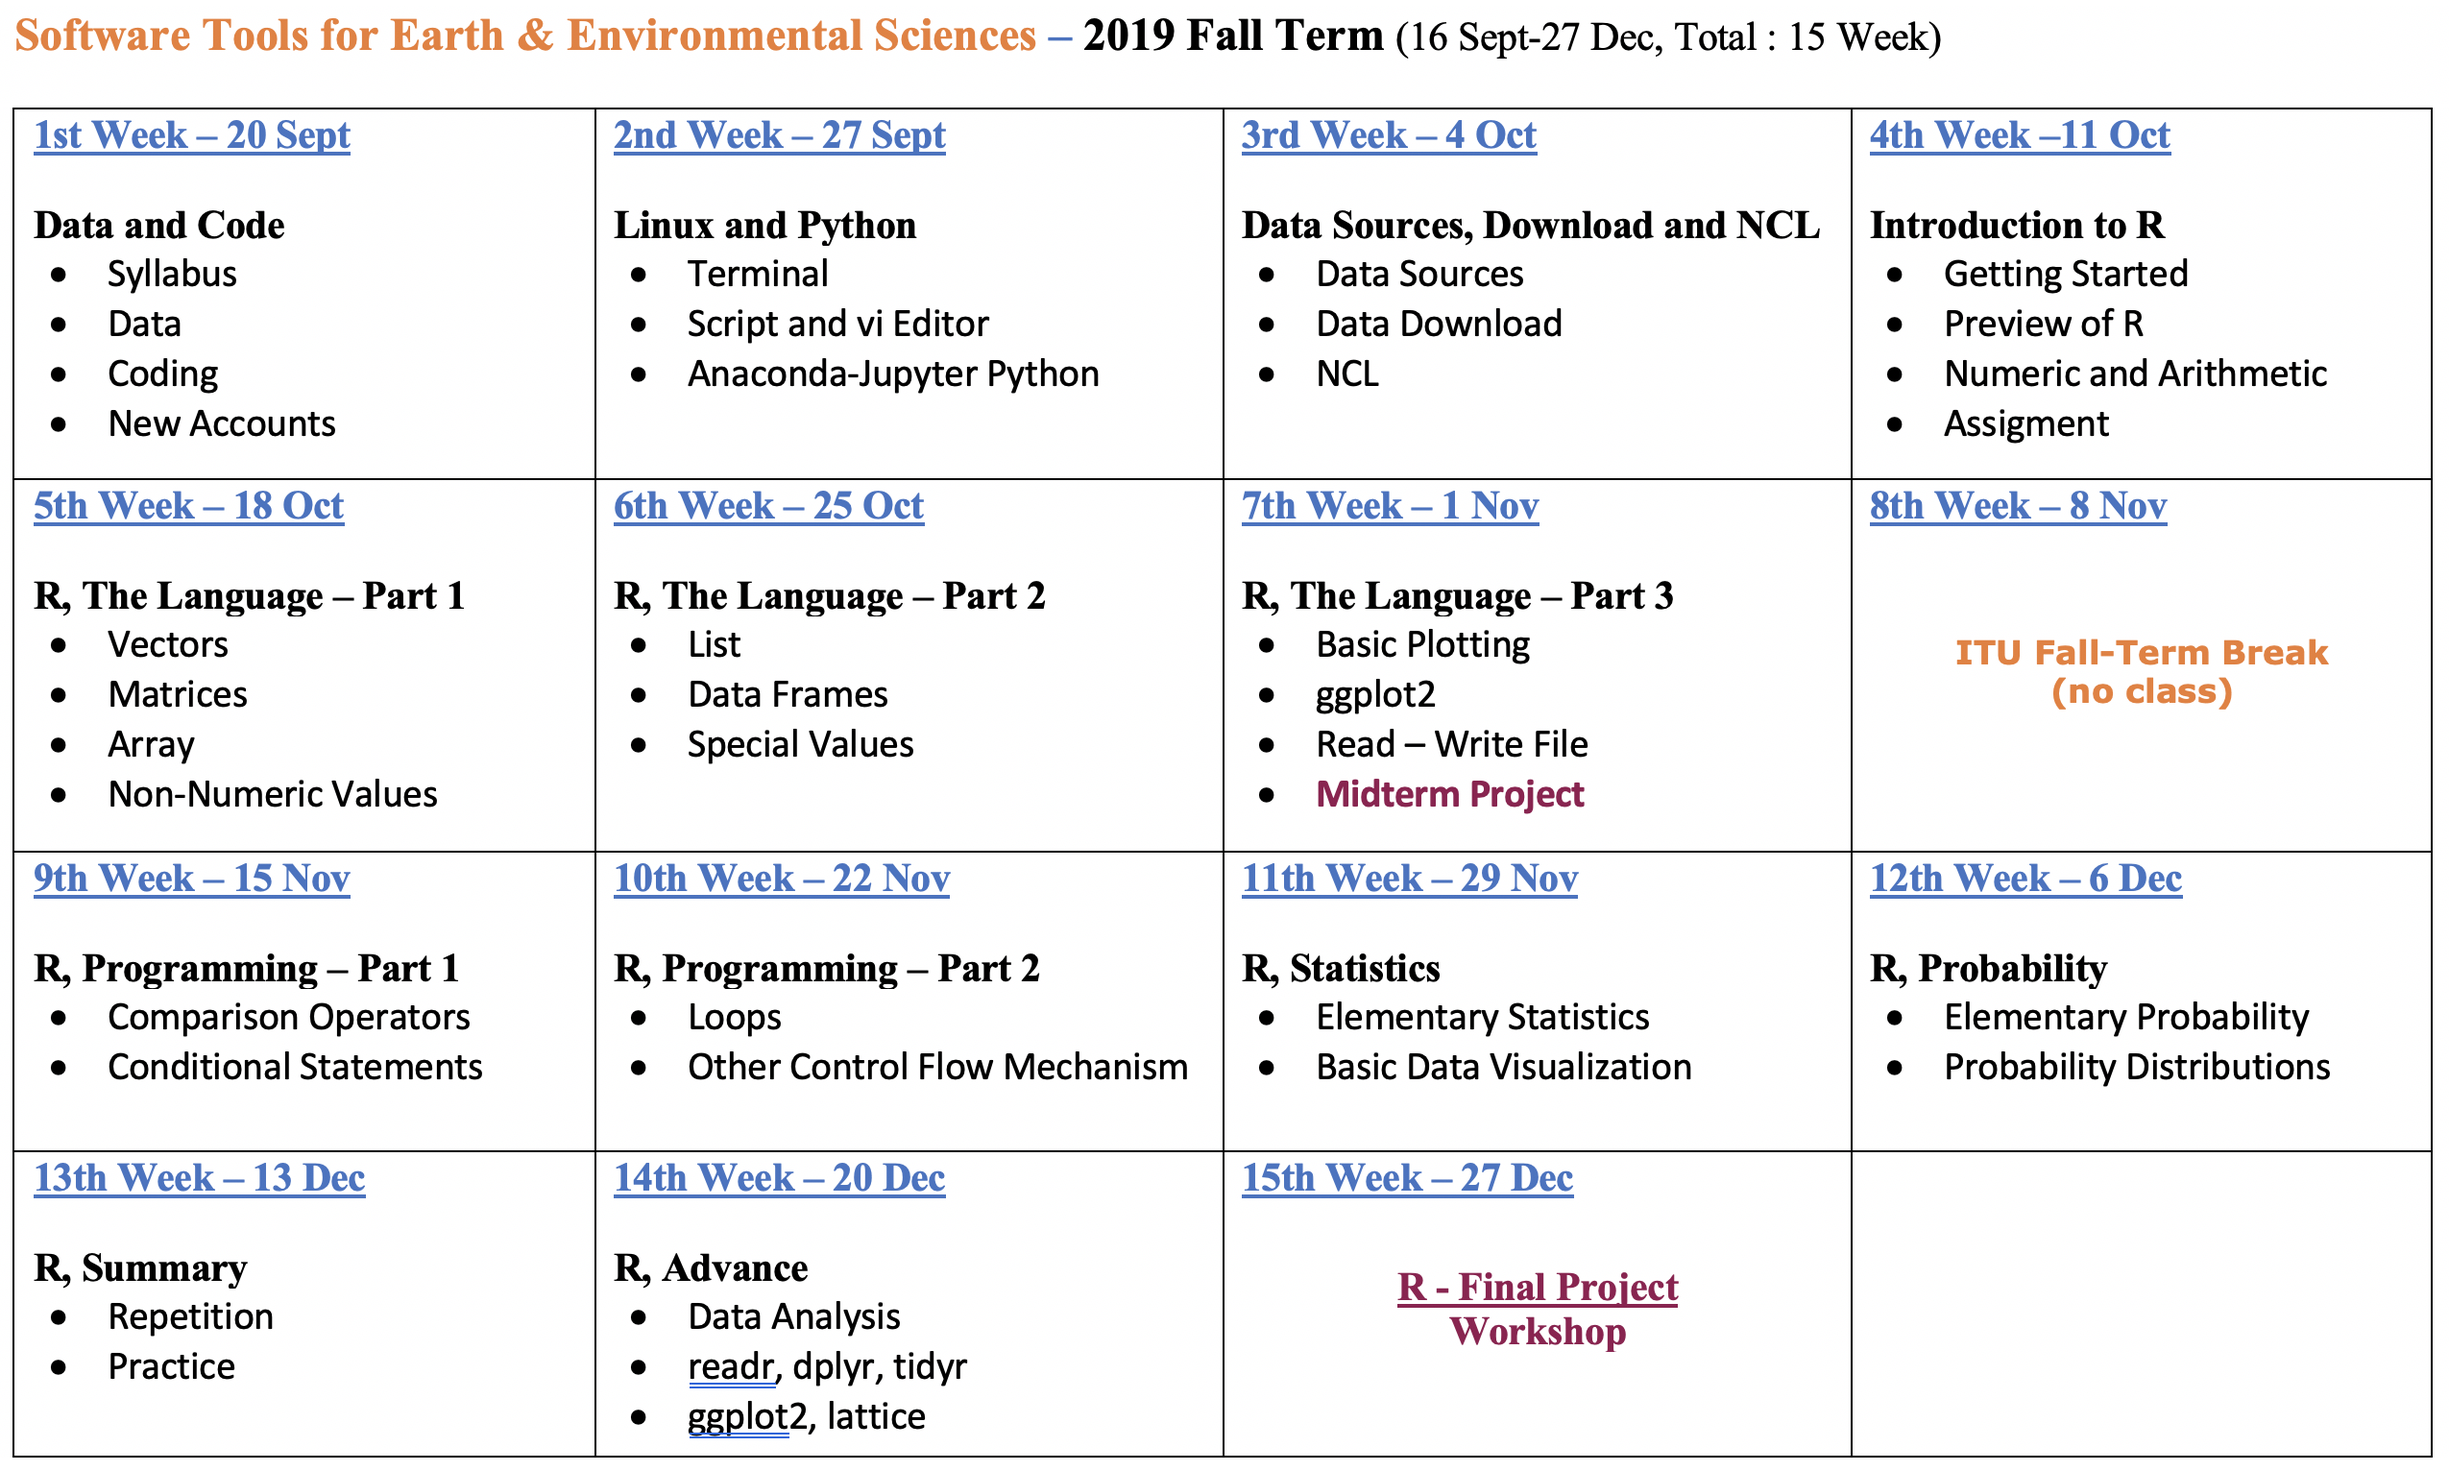
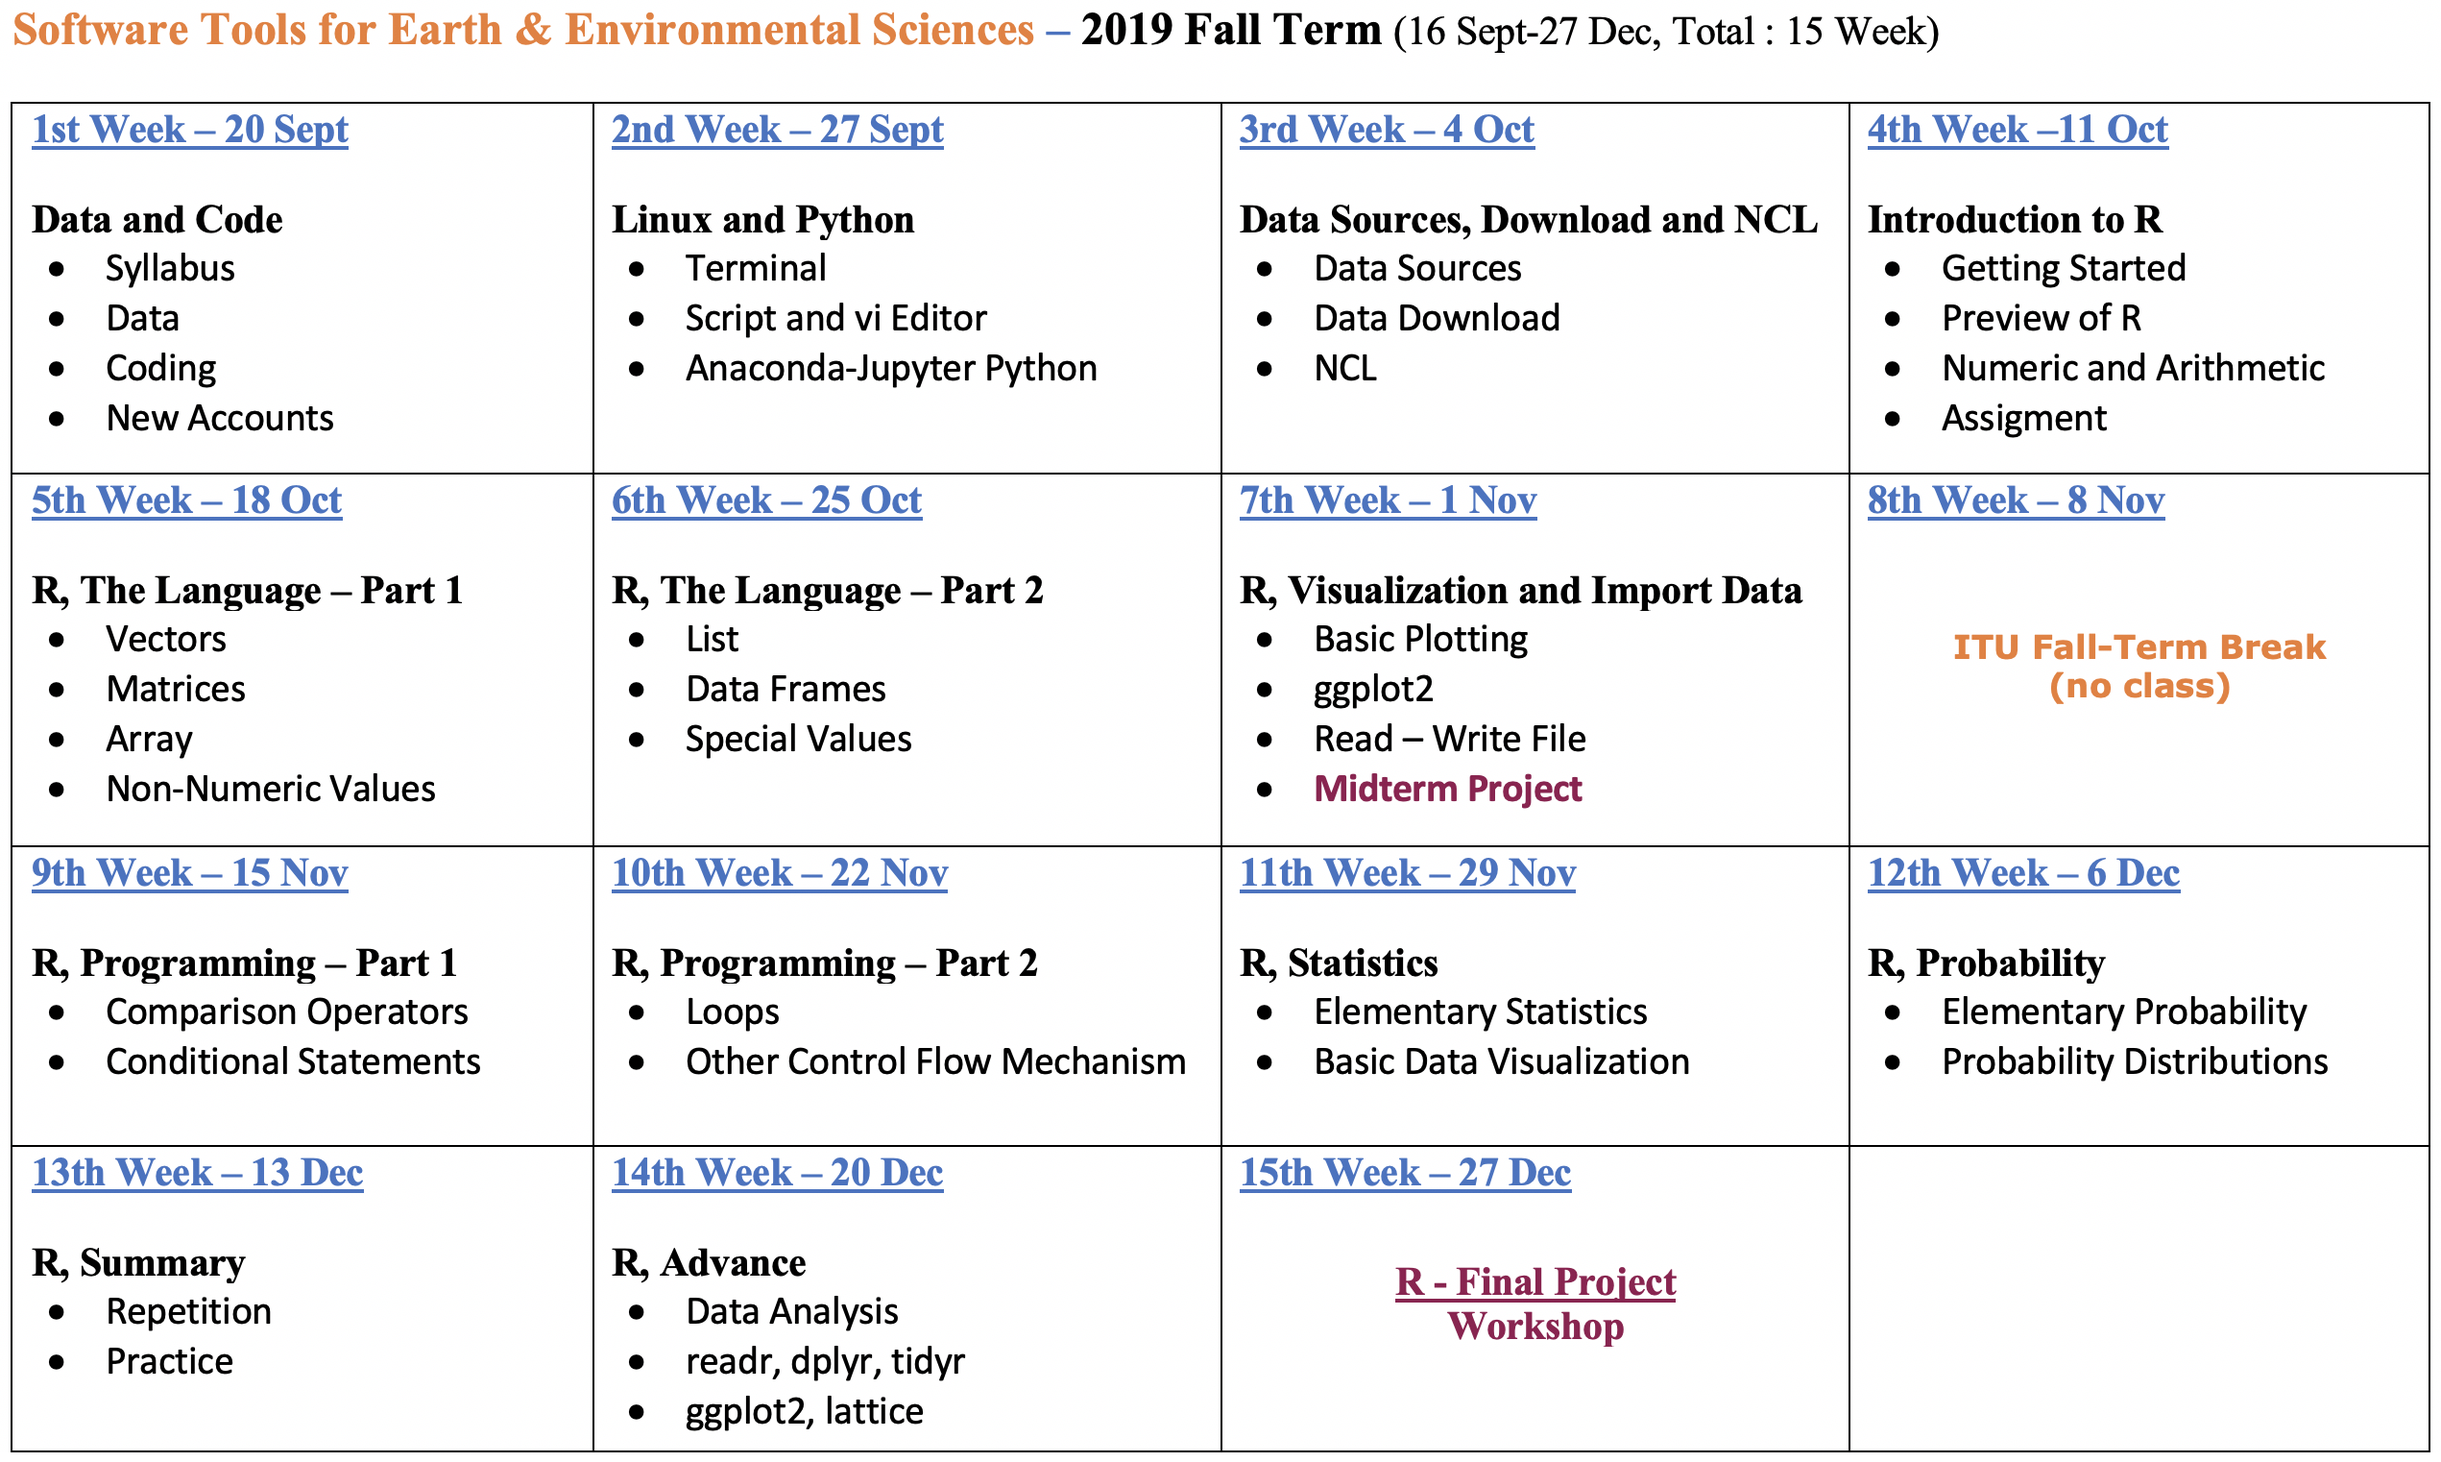
syll

diff --git a/docs/index.html b/docs/index.html
@@ -323,10 +323,10 @@ $(document).ready(function () {
 <p><strong>Interactive Trainings</strong></p>
 <ol style="list-style-type: decimal">
 <li><p><a href="https://emir-toker.shinyapps.io/R_Interactive_Training_and_Quiz/">Getting Started with R</a></p></li>
-<li><p><a href="https://emir-toker.shinyapps.io/R_Interactive_Training_and_Quiz/">R Language</a></p></li>
-<li><p><a href="https://emir-toker.shinyapps.io/R_Interactive_Training_and_Quiz/">R Programming</a></p></li>
-<li><p><a href="https://emir-toker.shinyapps.io/R_Interactive_Training_and_Quiz/">R Data Import and Visualization</a></p></li>
-<li><p><a href="https://emir-toker.shinyapps.io/R_Interactive_Training_and_Quiz/">R Statistics and Probability</a></p></li>
+<li><p>R Language</p></li>
+<li><p>R Visualization and Import Data</p></li>
+<li><p>R Programming</p></li>
+<li><p>R Statistics and Probability</p></li>
 </ol>
 <hr />
 
